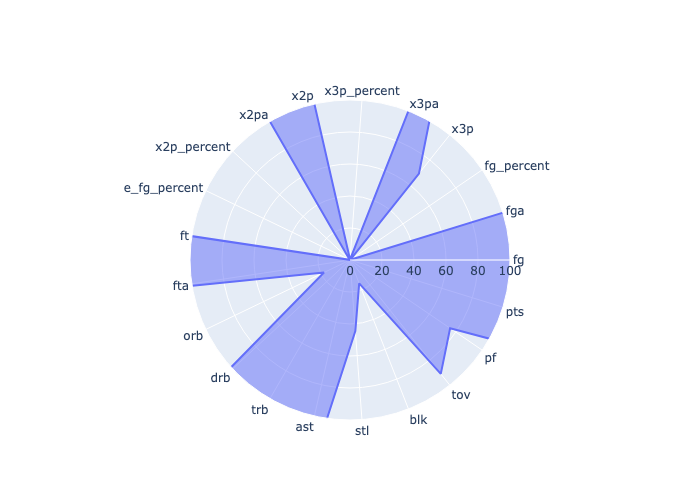
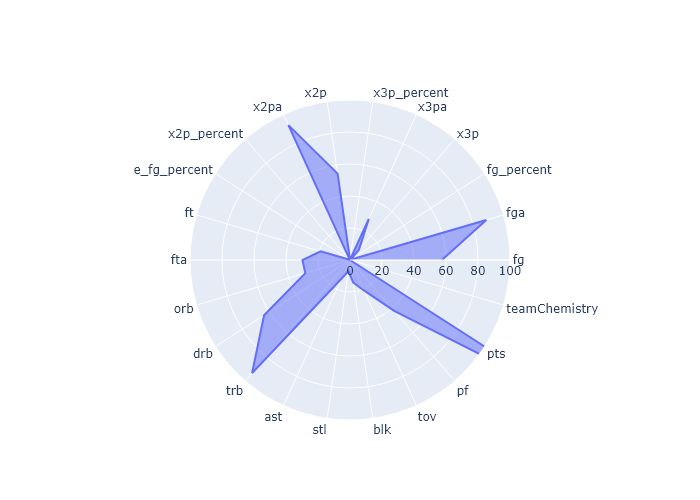
Adding teamchemistry to first plot

diff --git a/NBABackend/models/auth.py b/NBABackend/models/auth.py
@@ -32,6 +32,10 @@ df2 = pd.read_csv("NBABackend/csv/Player Totals.csv")
 
 currentTeamComparison = []
 
+plotColumns = ['fg', 'fga', 'fg_percent', 'x3p', 'x3pa', 'x3p_percent', 'x2p', 'x2pa',
+       'x2p_percent', 'e_fg_percent', 'ft', 'fta', 'orb', 'drb', 'trb', 'ast',
+       'stl', 'blk', 'tov', 'pf', 'pts', 'teamChemistry']
+
 @auth.route("/",  methods = ["GET", "POST"])
 def login():
     # print("Here")
@@ -137,8 +141,8 @@ def login():
         
         prediction = model.predict([currentTeam])
         # print(prediction)
-        
-        generatePlot(currentTeam, filtcols, 0)
+        global plotColumns
+        generatePlot(currentTeam, plotColumns, 0)
        
         return render_template('result.html', text = prediction)
 
@@ -394,6 +398,7 @@ def teamCompare():
             winnerTeam = 'True'
 
         filtcols = df.columns[1:]
+        print(filtcols)
         print(team1perf, team2perf)
         generatePlot(team1[0], filtcols, 1)
         generatePlot(currentTeamComparison, filtcols, 2)
